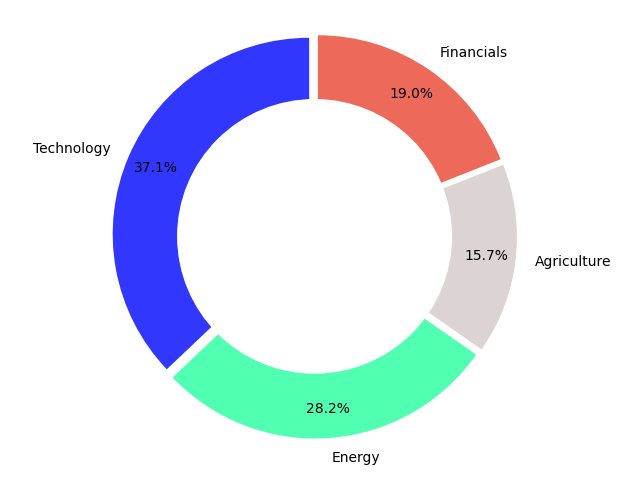
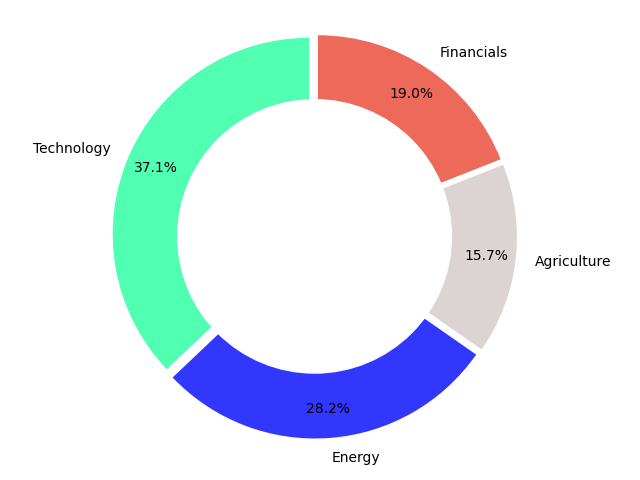
Updates

Changed region(s): [[0.1562, 0.0625, 0.75, 0.9375]]

diff --git a/backend/plots.py b/backend/plots.py
@@ -1,12 +1,12 @@
 #approach inspired from https://medium.com/@kvnamipara/a-better-visualisation-of-pie-charts-by-matplotlib-935b7667d77f
 import matplotlib.pyplot as plt
 
-def firstPie():
+def first_pie():
     labels = 'Technology', 'Energy', 'Agriculture', 'Financials'
     sizes = [37.1, 28.2, 15.7, 19]
     explode = (0.03, 0.03, 0.03, 0.03) 
 
-    colors = ['#3137FD','#50FFB1','#DBD4D3','#ED6A5A']
+    colors = ['#50FFB1', '#3137FD','#DBD4D3','#ED6A5A']
 
     plt.pie(sizes, colors = colors, labels=labels, autopct='%1.1f%%', startangle=90, pctdistance=0.85, explode = explode)
 
@@ -20,12 +20,12 @@ def firstPie():
     plt.savefig("./images1/piechart")
     plt.close()
 
-def secondPie():
+def second_pie():
     labels = 'Technology', 'Financials'
     sizes = [99.1, 0.9]
     explode = (0.03, 0.03) 
 
-    colors = ['#3137FD','#50FFB1']
+    colors = ['#50FFB1', '#3137FD']
 
     plt.pie(sizes, colors = colors, labels=labels, autopct='%1.1f%%', startangle=90, pctdistance=0.85, explode = explode)
 
@@ -39,7 +39,25 @@ def secondPie():
     plt.savefig("./images2/piechart")
     plt.close()
 
+def a_pLus():
+    sizes = [100]
 
-firstPie()
+    colors = ['#50FFB1']
 
-secondPie()
+    plt.pie(sizes, colors = colors, startangle=90, pctdistance=0.85, shadow=True)
+
+    centre_circle = plt.Circle((0,0),0.70,fc='white')
+    fig = plt.gcf()
+    fig.gca().add_artist(centre_circle)
+    # Equal aspect ratio ensures that pie is drawn as a circle
+    plt.axis('equal')  
+    plt.tight_layout()
+
+    plt.savefig("./images1/a_plus_raw")
+    plt.close()
+
+first_pie()
+
+second_pie()
+
+a_pLus()
